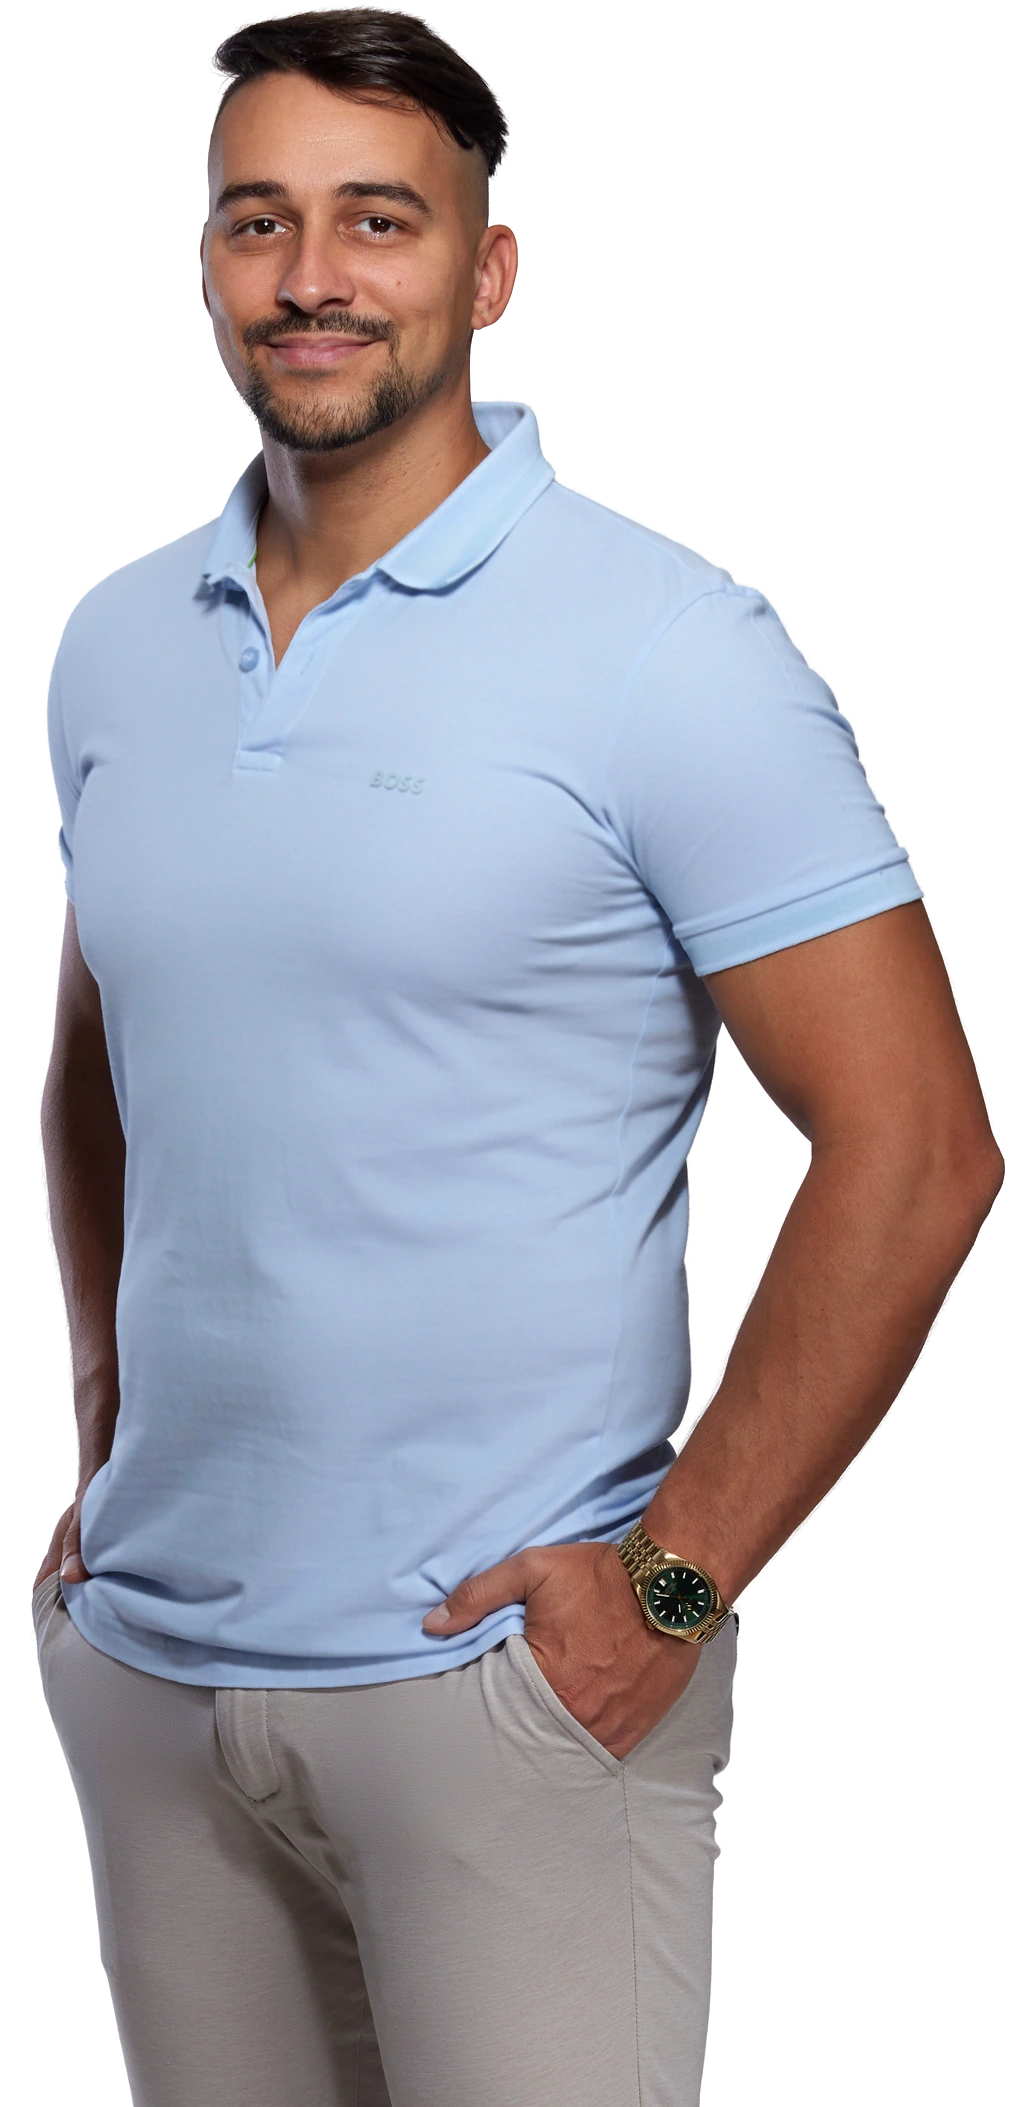
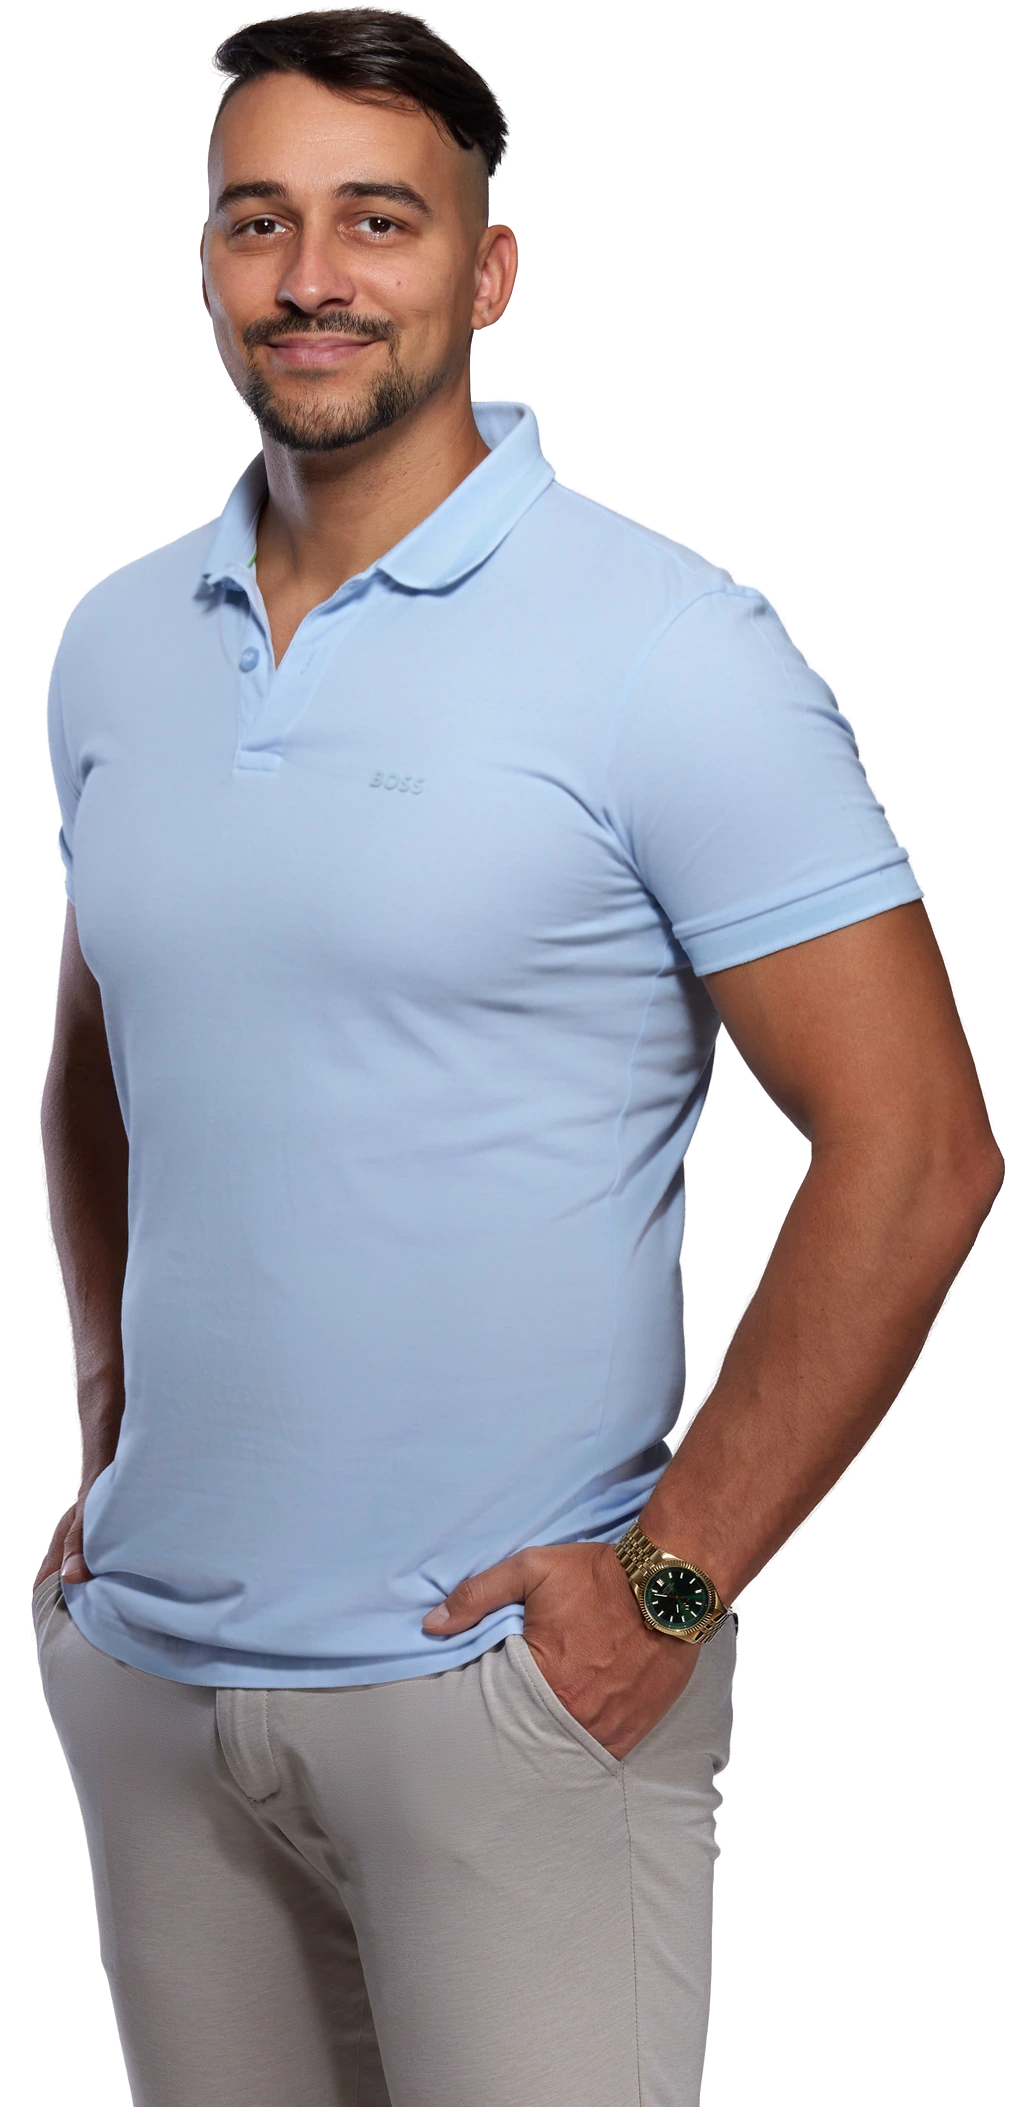
Hero fotka homepage: retuš břicha (rovné tričko 85 %, pas 5 %), postup ve scripts/fotky

Changed region(s): [[0.5287, 0.5244, 0.7153, 0.8021], [0.0622, 0.4936, 0.1244, 0.7404], [0.0933, 0.7404, 0.1866, 0.8021]]

diff --git a/scripts/fotky/1e-rovne-tricko.py b/scripts/fotky/1e-rovne-tricko.py
@@ -1,0 +1,144 @@
+"""„Rovné tričko“: přestavba stínování v oblasti břicha (jako retuš ve
+Photoshopu — dodge & burn přes celou plochu, ne jen zjemnění).
+
+Rovné vypnuté tričko na trupu má stínování dané jen tvarem trupu: tmavší
+k bokům, světlejší uprostřed, a to stejně v každé výšce. Z řádků NAD
+břichem se proto změří vodorovný profil jasu (v poměrné šířce trupu
+0 = levý bok, 1 = pravý bok) a v oblasti břicha se jas trička nahradí
+tímto profilem + plynulým svislým přechodem. Jemná struktura látky
+(< ~2 px) se ponechá, okraj trupu a lem trička se nemění.
+Upravuje fotky-nove/finalni/<id>.png (záloha <id>-pred-1e.png).
+Použití: python 1e-rovne-tricko.py <id> <y_ref_od> <y_ref_do> <y_od> <y_do> [síla]
+(řádky v px při výšce 3600: referenční pás nad břichem, oblast úpravy)"""
+import sys, os, shutil
+import numpy as np, cv2
+from PIL import Image
+
+ROOT = r"C:\Users\gajda\OneDrive\Pracovní\Claude projekty\Web patrik gajdadzis\fotky-nove"
+src = sys.argv[1]
+r0, r1, y0, y1 = map(int, sys.argv[2:6])
+sila = float(sys.argv[6]) if len(sys.argv) > 6 else 1.0
+path, backup = f"{ROOT}/finalni/{src}.png", f"{ROOT}/finalni/{src}-pred-1e.png"
+if not os.path.exists(backup):
+    shutil.copy(path, backup)
+im = np.asarray(Image.open(backup).convert("RGBA"))
+rgb = im[..., :3]
+H, W = rgb.shape[:2]
+
+hsv = cv2.cvtColor(rgb, cv2.COLOR_RGB2HSV_FULL).astype(np.float32)
+h, s, v = hsv[..., 0] * 360 / 255, hsv[..., 1] / 255, hsv[..., 2] / 255
+shirt = ((h > 185) & (h < 230) & (s > 0.07) & (s < 0.65) & (v > 0.40) & (im[..., 3] > 250)).astype(np.uint8)
+shirt = cv2.morphologyEx(shirt, cv2.MORPH_CLOSE, cv2.getStructuringElement(cv2.MORPH_ELLIPSE, (25, 25)))
+n, lab_, st, _ = cv2.connectedComponentsWithStats(shirt)
+torso = (lab_ == 1 + np.argmax(st[1:, cv2.CC_STAT_AREA])).astype(np.uint8)
+
+lab = cv2.cvtColor(rgb.astype(np.float32) / 255, cv2.COLOR_RGB2LAB)
+L0 = lab[..., 0].copy()
+m = cv2.GaussianBlur(torso.astype(np.float32), (0, 0), 3) + 1e-6
+smooth = cv2.GaussianBlur(L0 * m, (0, 0), 12) / np.maximum(cv2.GaussianBlur(m, (0, 0), 12), 1e-4)
+
+# hranice trupu v každém řádku → poměrná souřadnice u
+left = np.full(H, -1.0); right = np.full(H, -1.0)
+for y in range(H):
+    xs = np.where(torso[y])[0]
+    if len(xs) > 50:
+        left[y], right[y] = xs[0], xs[-1]
+# hranice vyhladit ve svislém směru — ruka/loket u boku jinak dělají skoky
+# (a s nimi vodorovné „schody“ v jasu)
+from scipy.ndimage import median_filter, gaussian_filter1d  # noqa: E402
+valid = left >= 0
+for arr in (left, right):
+    a = arr.copy()
+    idx = np.where(valid)[0]
+    a[idx] = gaussian_filter1d(median_filter(a[idx], size=61, mode="nearest"), 20, mode="nearest")
+    arr[:] = a
+BINS = 80
+def profile(rows):
+    acc = [[] for _ in range(BINS)]
+    for y in rows:
+        if left[y] < 0:
+            continue
+        xs = np.arange(int(left[y]), int(right[y]) + 1)
+        u = (xs - left[y]) / max(right[y] - left[y], 1)
+        b = np.clip((u * BINS).astype(int), 0, BINS - 1)
+        for bi, val in zip(b, smooth[y, xs]):
+            acc[bi].append(val)
+    p = np.array([np.median(a) if a else np.nan for a in acc])
+    p = np.interp(np.arange(BINS), np.where(~np.isnan(p))[0], p[~np.isnan(p)])
+    return cv2.GaussianBlur(p.reshape(1, -1).astype(np.float32), (0, 0), 2.5).ravel()
+
+P = profile(range(r0, r1))
+Pmean = P.mean()
+# svislý trend: průměrný jas referenčního pásu → průměr těsně nad lemem
+def rowmean(rows):
+    vals = [smooth[y, int(left[y]):int(right[y]) + 1].mean() for y in rows if left[y] >= 0]
+    return float(np.mean(vals))
+top_mean = rowmean(range(r0, r1))
+bot_mean = rowmean(range(y1 - 30, y1))
+
+SIDE = float(os.environ.get("SIDE", 80))   # šířka přechodu k bokům (px)
+TOP = float(os.environ.get("TOP", 150))    # přechod nahoru do zbytku trička
+BOT = float(os.environ.get("BOT", 60))     # přechod dolů k lemu
+EDGE = float(os.environ.get("EDGE", 0.22))  # jak daleko od boku (podíl šířky) se drží původní tón
+# rozdíl skutečného tónu u boků proti rovnému profilu, řádek po řádku
+offL = np.zeros(H, np.float32); offR = np.zeros(H, np.float32)
+for y in range(max(0, y0 - 40), min(H, y1 + 40)):
+    if left[y] < 0:
+        continue
+    xs = np.arange(int(left[y]), int(right[y]) + 1)
+    u = (xs - left[y]) / max(right[y] - left[y], 1)
+    tm = top_mean + (bot_mean - top_mean) * np.clip((y - r1) / max(y1 - r1, 1), 0, 1)
+    base = np.interp(u * (BINS - 1), np.arange(BINS), P) - Pmean + tm
+    dif = smooth[y, xs] - base
+    kL, kR = (u > 0.02) & (u < 0.08), (u > 0.92) & (u < 0.98)
+    offL[y] = dif[kL].mean() if kL.any() else 0
+    offR[y] = dif[kR].mean() if kR.any() else 0
+offL = gaussian_filter1d(offL, 25); offR = gaussian_filter1d(offR, 25)
+target = L0.copy()
+w = np.zeros((H, W), np.float32)
+for y in range(y0, y1):
+    if left[y] < 0:
+        continue
+    t = (y - r1) / max(y1 - r1, 1)
+    level = top_mean + (bot_mean - top_mean) * np.clip(t, 0, 1)
+    xs = np.arange(int(left[y]), int(right[y]) + 1)
+    u = (xs - left[y]) / max(right[y] - left[y], 1)
+    base = np.interp(u * (BINS - 1), np.arange(BINS), P) - Pmean + level
+    # u boků navázat na skutečný tón okraje (stín boku u ruky), dovnitř
+    # plynule do rovné plochy — žádný světlý pruh podél okraje
+    fL = np.clip(1 - u / EDGE, 0, 1); fL = fL * fL * (3 - 2 * fL)
+    fR = np.clip(1 - (1 - u) / EDGE, 0, 1); fR = fR * fR * (3 - 2 * fR)
+    target[y, xs] = base + offL[y] * fL + offR[y] * fR
+    # váha: plná uvnitř, k okrajům trupu (25 px) a k horní/dolní hranici oblasti plynule
+    edge = np.minimum(xs - left[y], right[y] - xs)
+    wx = np.clip((edge - 8) / SIDE, 0, 1)
+    wy = min(1.0, (y - y0) / TOP, (y1 - y) / BOT)
+    wx, wy = wx * wx * (3 - 2 * wx), max(wy, 0) ** 2 * (3 - 2 * max(wy, 0))   # plynulé (smoothstep)
+    w[y, xs] = wx * wy
+w = cv2.GaussianBlur(w, (0, 0), 6) * sila * torso
+
+fine = cv2.GaussianBlur(L0, (0, 0), 1.6)        # jemná struktura látky zůstává (L0 − fine)
+# Kousek drobných přirozených záhybů (do ~8 px) ponechat, ať tričko nepůsobí
+# jako plast — velké tvary (břicho) ne.
+KEEP = float(os.environ.get("KEEP", 0.3))
+target = target + KEEP * (fine - cv2.GaussianBlur(L0, (0, 0), 8))
+Ln = L0 + w * (target - fine)
+lab[..., 0] = np.clip(Ln, 0, 100)
+out = np.clip(cv2.cvtColor(lab, cv2.COLOR_LAB2RGB) * 255 + 0.5, 0, 255).astype(np.uint8)
+out = np.where((w > 0.002)[..., None], out, rgb)
+
+# Napojení na zbytek trička bez švu (jako „Healing brush“ ve Photoshopu):
+# gradientní (Poissonovo) prolnutí — uvnitř oblasti zůstane nový průběh
+# jasu, na její hranici se hodnoty přesně srovnají s okolním tričkem.
+if os.environ.get("SEAMLESS", "0") == "1":
+    mask = ((w > 0.02) & (cv2.erode(torso, np.ones((15, 15), np.uint8)) > 0)).astype(np.uint8) * 255
+    mask = cv2.morphologyEx(mask, cv2.MORPH_OPEN, np.ones((9, 9), np.uint8))
+    x, y, bw, bh = cv2.boundingRect(mask)
+    center = (x + bw // 2, y + bh // 2)
+    cloned = cv2.seamlessClone(np.ascontiguousarray(out), np.ascontiguousarray(rgb), mask, center, cv2.NORMAL_CLONE)
+    soft = cv2.GaussianBlur(mask.astype(np.float32) / 255, (0, 0), 2)[..., None]
+    out = np.clip(cloned * soft + rgb * (1 - soft) + 0.5, 0, 255).astype(np.uint8)
+    lab = cv2.cvtColor(out.astype(np.float32) / 255, cv2.COLOR_RGB2LAB)
+Image.fromarray(np.dstack([out, im[..., 3]]), "RGBA").save(path)
+np.save(f"{ROOT}/finalni/{src}-1e-dL.npy", (lab[..., 0] - L0).astype(np.float16))
+print(src, "hotovo; profil z řádků", r0, r1, "oblast", y0, y1)

diff --git a/scripts/fotky/1d-vyhladit-oblast.py b/scripts/fotky/1d-vyhladit-oblast.py
@@ -2,7 +2,7 @@
 kalhotami u kapes). Stejný princip jako 1b (frekvenční separace jasu), ale
 silněji a jen v elipsách; kůže a ostré hrany (šev kapsy, poklopec) se chrání.
 Upravuje fotky-nove/finalni/<id>.png na místě (záloha <id>-pred-1d.png).
-Použití: python 1d-vyhladit-oblast.py <id> <sila> cx,cy,rx,ry [cx,cy,rx,ry …]
+Použití: python 1d-vyhladit-oblast.py <id> <sila> cx,cy,rx,ry[,k] [… ]  (k = síla elipsy 0–1)
 (souřadnice v px pracovního rozlišení 3600)"""
 import sys, os, shutil
 import numpy as np, cv2
@@ -20,15 +20,20 @@ rgb = im[..., :3]
 H, W = rgb.shape[:2]
 hsv = cv2.cvtColor(rgb, cv2.COLOR_RGB2HSV_FULL).astype(np.float32)
 h, s = hsv[..., 0] * 360 / 255, hsv[..., 1] / 255
-cloth = ((s < 0.22) & ~((h > 5) & (h < 45) & (s > 0.18)) & (im[..., 3] > 250)).astype(np.uint8)
+v = hsv[..., 2] / 255
+pants = (s < 0.22) & ~((h > 5) & (h < 45) & (s > 0.18))
+shirt = (h > 185) & (h < 230) & (s > 0.07) & (s < 0.65) & (v > 0.40)
+cloth = ((pants | shirt) & (im[..., 3] > 250)).astype(np.uint8)
 cloth = cv2.erode(cloth, cv2.getStructuringElement(cv2.MORPH_ELLIPSE, (9, 9)))
 m = cv2.GaussianBlur(cloth.astype(np.float32), (0, 0), 3)
 
 Y, X = np.mgrid[0:H, 0:W].astype(np.float32)
 area = np.zeros((H, W), np.float32)
-for cx, cy, rx, ry in ells:
+for e in ells:                     # cx,cy,rx,ry[,síla elipsy]
+    cx, cy, rx, ry = e[:4]
+    k = e[4] if len(e) > 4 else 1.0
     d = ((X - cx) / rx) ** 2 + ((Y - cy) / ry) ** 2
-    area = np.maximum(area, np.clip(1.5 - d, 0, 1) ** 1.5)
+    area = np.maximum(area, k * np.clip(1.5 - d, 0, 1) ** 1.5)
 
 lab = cv2.cvtColor(rgb.astype(np.float32) / 255, cv2.COLOR_RGB2LAB)
 L = lab[..., 0]

diff --git a/scripts/fotky/4-archiv.py b/scripts/fotky/4-archiv.py
@@ -4,7 +4,7 @@ v plném rozlišení originálu (fotky-nove/bez-pozadi-plne → fotky-nove/final
 Tónová retuš je plynulá (žádný jemný detail), takže se rozdíl jasu
 spočítá na 3600 px a zvětší na originál; jemná kresba originálu zůstane.
 Posun obrysu (liquify) se přepočítá ve stejném vzorci v plném rozlišení.
-Použití: python 4-archiv.py <id>:<obrys %> [...]   např. 330:3 312:0"""
+Použití: python 4-archiv.py <id>:<obrys %>[:<stín %>] [...]   např. 330:5:80 312:0"""
 import sys
 import numpy as np, cv2
 from PIL import Image
@@ -18,10 +18,11 @@ def L_of(rgb8):
 
 
 for arg in sys.argv[1:]:
-    src, obrys = arg.split(":")
-    obrys = float(obrys)
+    parts = arg.split(":")
+    src, obrys = parts[0], float(parts[1])
+    stin = parts[2] if len(parts) > 2 else "50"
     before = np.asarray(Image.open(f"{ROOT}/bez-pozadi-v2/{src}.png").convert("RGBA"))
-    after = np.asarray(Image.open(f"{ROOT}/bez-pozadi-v3/{src}-50-b50-o0.png").convert("RGBA"))
+    after = np.asarray(Image.open(f"{ROOT}/bez-pozadi-v3/{src}-50-b{stin}-o0.png").convert("RGBA"))
     dL = L_of(after[..., :3]) - L_of(before[..., :3])          # jen tónová změna, bez posunu
 
     full = np.asarray(Image.open(f"{ROOT}/bez-pozadi-plne/{src}.png").convert("RGBA"))

diff --git a/scripts/fotky/1c-brisko.py b/scripts/fotky/1c-brisko.py
@@ -9,7 +9,7 @@
 Vstup:  fotky-nove/bez-pozadi-v3/<id>-<zahyby>.png
 Výstup: fotky-nove/bez-pozadi-v3/<id>-<zahyby>-b<stin>-o<obrys>.png
 Použití: python 1c-brisko.py <id> <zahyby%> <stin 0–1> <obrys %>"""
-import sys
+import sys, os
 import numpy as np, cv2
 from PIL import Image
 
@@ -33,7 +33,9 @@ cy = top + 0.74 * (bot - top)
 row = torso[int(cy)]
 lx, rx = np.where(row)[0][[0, -1]]
 cx = (lx + rx) / 2
-ex, ey = (rx - lx) * 0.42, (bot - top) * 0.16
+EX = float(os.environ.get('EX', 0.42))   # šířka oblasti břicha (podíl šířky trupu)
+EY = float(os.environ.get('EY', 0.16))   # výška oblasti (podíl výšky trička)
+ex, ey = (rx - lx) * EX, (bot - top) * EY
 Y, X = np.mgrid[0:H, 0:W].astype(np.float32)
 
 # 1) stínování
@@ -65,6 +67,6 @@ if obrys > 0:
     im = cv2.remap(im, mapx, Y, interpolation=cv2.INTER_CUBIC, borderMode=cv2.BORDER_CONSTANT)
 
 out = np.clip(im + 0.5, 0, 255).astype(np.uint8)
-name = f"{src}-{zah}-b{int(stin * 100)}-o{obrys:g}"
+name = f"{src}-{zah}-b{int(stin * 100)}-o{obrys:g}" + os.environ.get("SUFFIX", "")
 Image.fromarray(out, "RGBA").save(f"{ROOT}/bez-pozadi-v3/{name}.png")
 print(name, "pupek y=%d x=%d" % (cy, cx))

diff --git a/docs/fotky-umisteni.md b/docs/fotky-umisteni.md
@@ -31,9 +31,19 @@ opencv; originály a mezivýstupy v `fotky-nove/`):
    (Patrik, 6. 10. 2026: „nechám si poradit“) → `fotky-nove/finalni/`.
 1d. `1d-vyhladit-oblast.py` — cílené vyhlazení v elipsách, u `…_330` (hero
    homepage) rýhy od prstů v kapsách na kalhotách:
-   `FINE=1.0 LOW=22 PROTECT=0 … 330 1.0 1240,1949,95,95 1225,1980,80,85 950,1925,90,100`
+   `FINE=1.0 LOW=16 PROTECT=0 … 330 1.0 1240,1949,95,95 1225,1980,80,85 950,1925,90,100 1000,1452,42,32 1040,1460,95,55,0.6`
+   (poslední dvě elipsy: tmavé místo na tričku, které vypadalo jako pupek)
    (souřadnice při výšce 3600; poklopec a šev kapsy mimo elipsy).
    Do archivu se přenese rozdíl jasu `finalni/330-1d-dL.npy`.
+1e. `SIDE=20 TOP=110 BOT=50 KEEP=0.41 EDGE=0.22 1e-rovne-tricko.py 330 1250 1350 1300 1800 0.85` (Patrik vybral 85 %; 100 % bylo „až moc rovné“) — jen hero homepage
+   (`…_330`, na přání Patrika „ať to vypadá jako normálně rovné triko“):
+   stínování trička v oblasti břicha přestavěné podle profilu jasu z řádků
+   nad břichem (rovné vypnuté tričko), struktura látky, okraje a lem
+   zůstávají. Základ pro `…_330` je silnější varianta břicha
+   (`1c-brisko.py 330 50 0.8 5`, stín 80 %, pas 5 %), pak 1d (jen kalhoty:
+   `FINE=1.0 LOW=16 PROTECT=0 … 330 1.0 1240,1949,95,95 1225,1980,80,85
+   950,1925,90,100`) a 1e. Archiv: `4-archiv.py 330:5:80` + rozdíly jasu
+   `finalni/330-1d-dL.npy` a `330-1e-dL.npy`.
 2. `2-najit-vyrez.py vyrezy.json` — kde ve fotce leží schválený výřez.
 3. `3-export-web.py vyrezy.json <složka>` — WebP výřezy z `finalni/` do
    `src/assets/photos/`.
